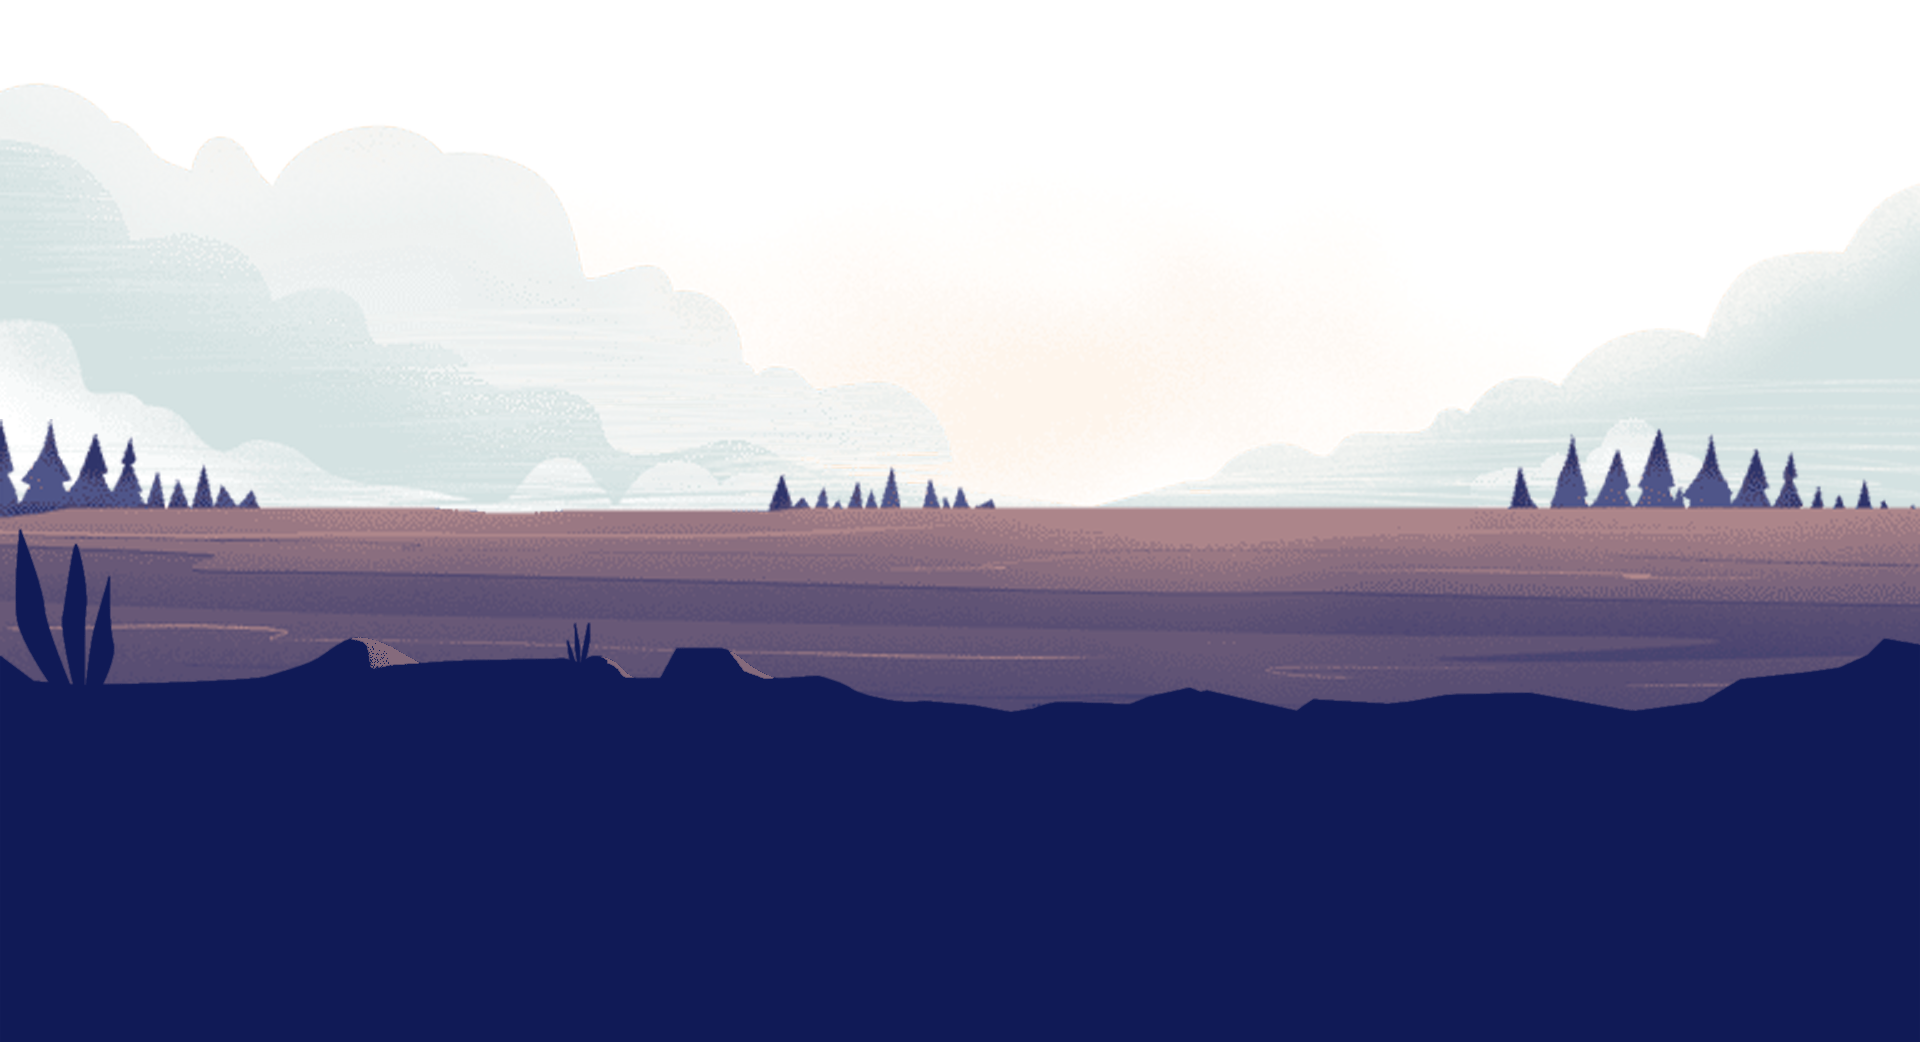
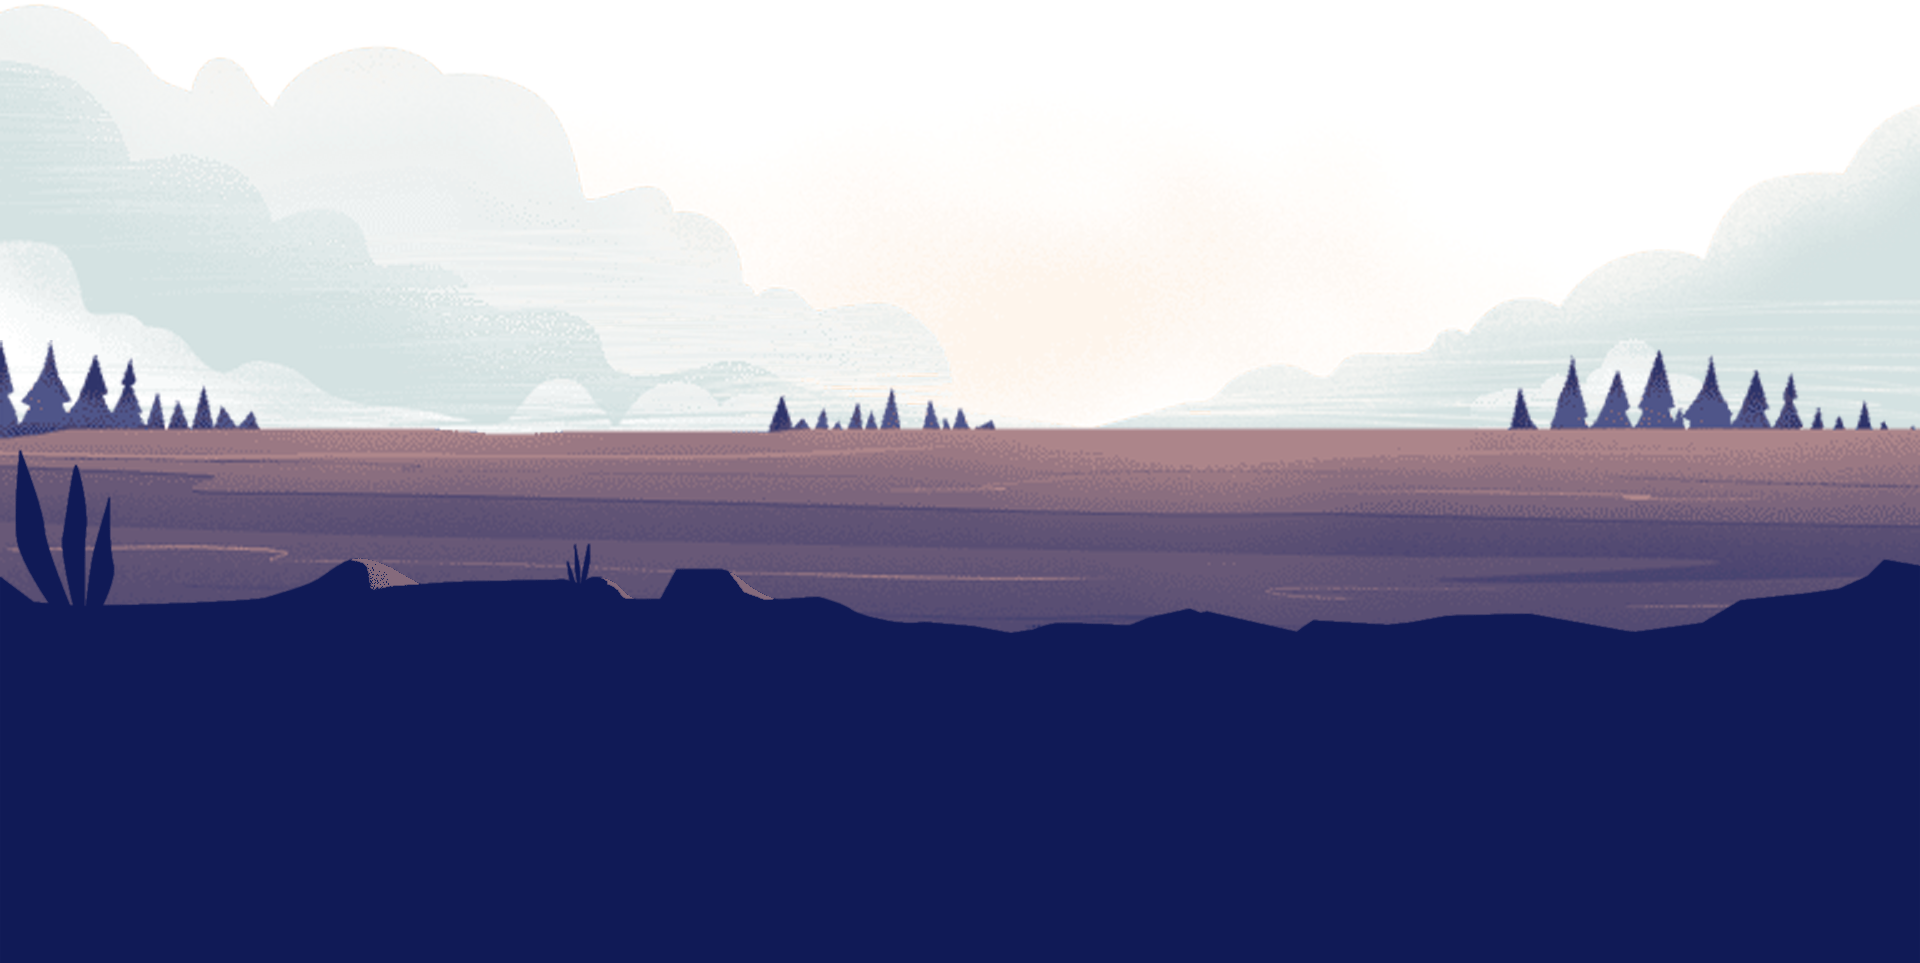
[app] Improve footer responsive

Changed region(s): [[0.0, 0.1558, 1.0, 0.6854], [0.0, 0.2492, 0.0312, 0.3115], [0.0, 0.0623, 0.0312, 0.1246]]

diff --git a/components/nav.tsx b/components/nav.tsx
@@ -34,8 +34,9 @@ export default function Nav () {
               </div>
               <div className='flex justify-between'>
                 <div>
-                  <Image className='w-auto h-16 lg:h-20' src='/images/56k-logo.svg' alt='56k logo' width={100} height={100}
-                  />
+                  <Link href='/'>
+                    <Image className='w-auto h-16 lg:h-20' src='/images/56k-logo.svg' alt='56k logo' width={100} height={100} />
+                  </Link>
                 </div>
                 <div className='hidden lg:flex lg:items-center'>
                   <div className='flex space-x-4'>

diff --git a/components/footer.tsx b/components/footer.tsx
@@ -17,7 +17,7 @@ export default function Footer () {
   ]
 
   return (
-    <section className="bg-[url('/images/landscape-background.png')] bg-no-repeat bg-cover relative bg-blue-lighter h-[1000px]">
+    <section className="bg-[url('/images/landscape-background.png')] bg-no-repeat bg-cover relative bg-blue-lighter h-[1000px] sm:h-[850px]">
       <div className='absolute bottom-0 right-0 z-50 p-8 md:p-0 md:w-10/12'>
         <div className='py-8 bg-white md:py-16'>
           <div className='flex flex-wrap justify-between px-8 overflow-hidden text-base font-light font-graphik text-blue-dark md:px-16'>

diff --git a/pages/_app.tsx b/pages/_app.tsx
@@ -1,7 +1,6 @@
 import 'tailwindcss/tailwind.css'
 import '../styles/global.css'
 import Head from 'next/head'
-// import Footer from '../components/footer'
 
 export const siteTitle = 'Edeltech'
 
@@ -18,7 +17,6 @@ export default function App ({ Component, pageProps }) {
         <meta name='og:title' content={siteTitle} />
       </Head>
       <Component {...pageProps} />
-      {/* <Footer /> */}
     </>
   )
 }

diff --git a/styles/global.css b/styles/global.css
@@ -63,6 +63,6 @@
 /* Classes */
 @layer base {
   .section-padding {
-    @apply px-8 py-14 xl:py-24 xl:px-36
+    @apply px-8 py-[72px] xl:py-24 xl:px-36
   }
 }
